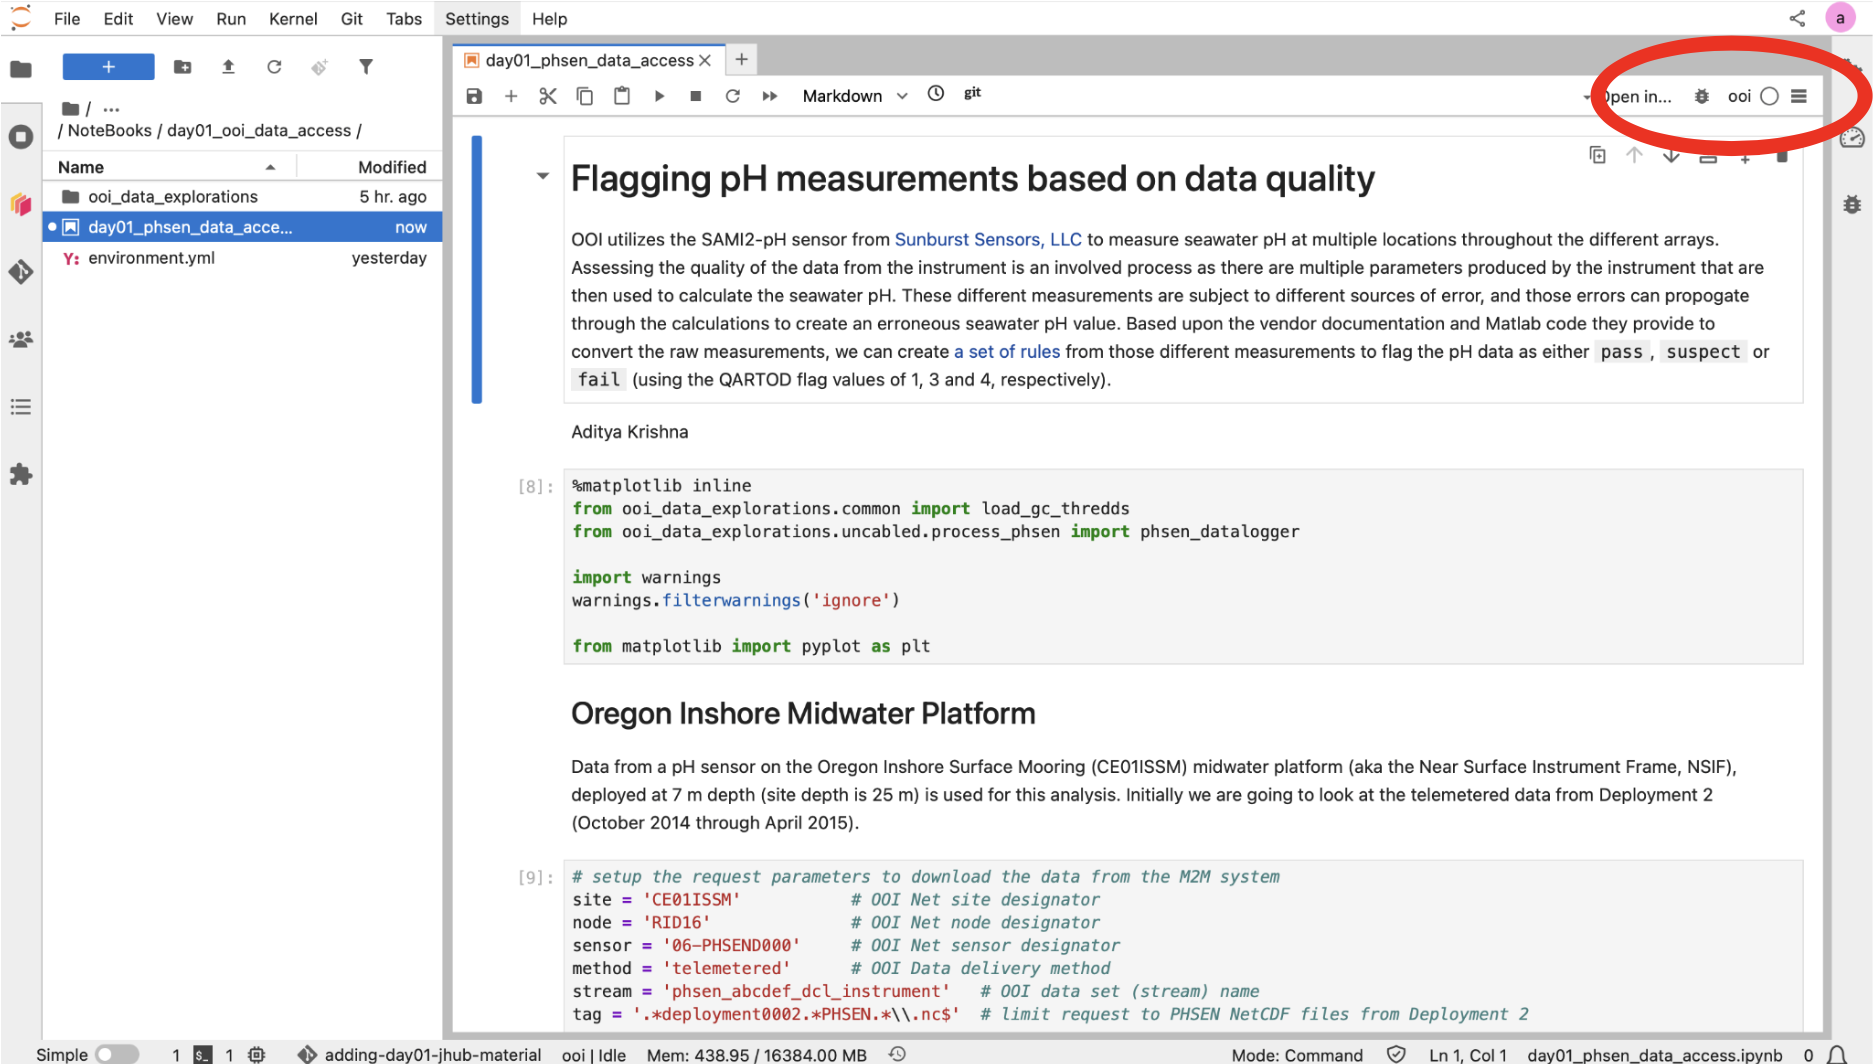
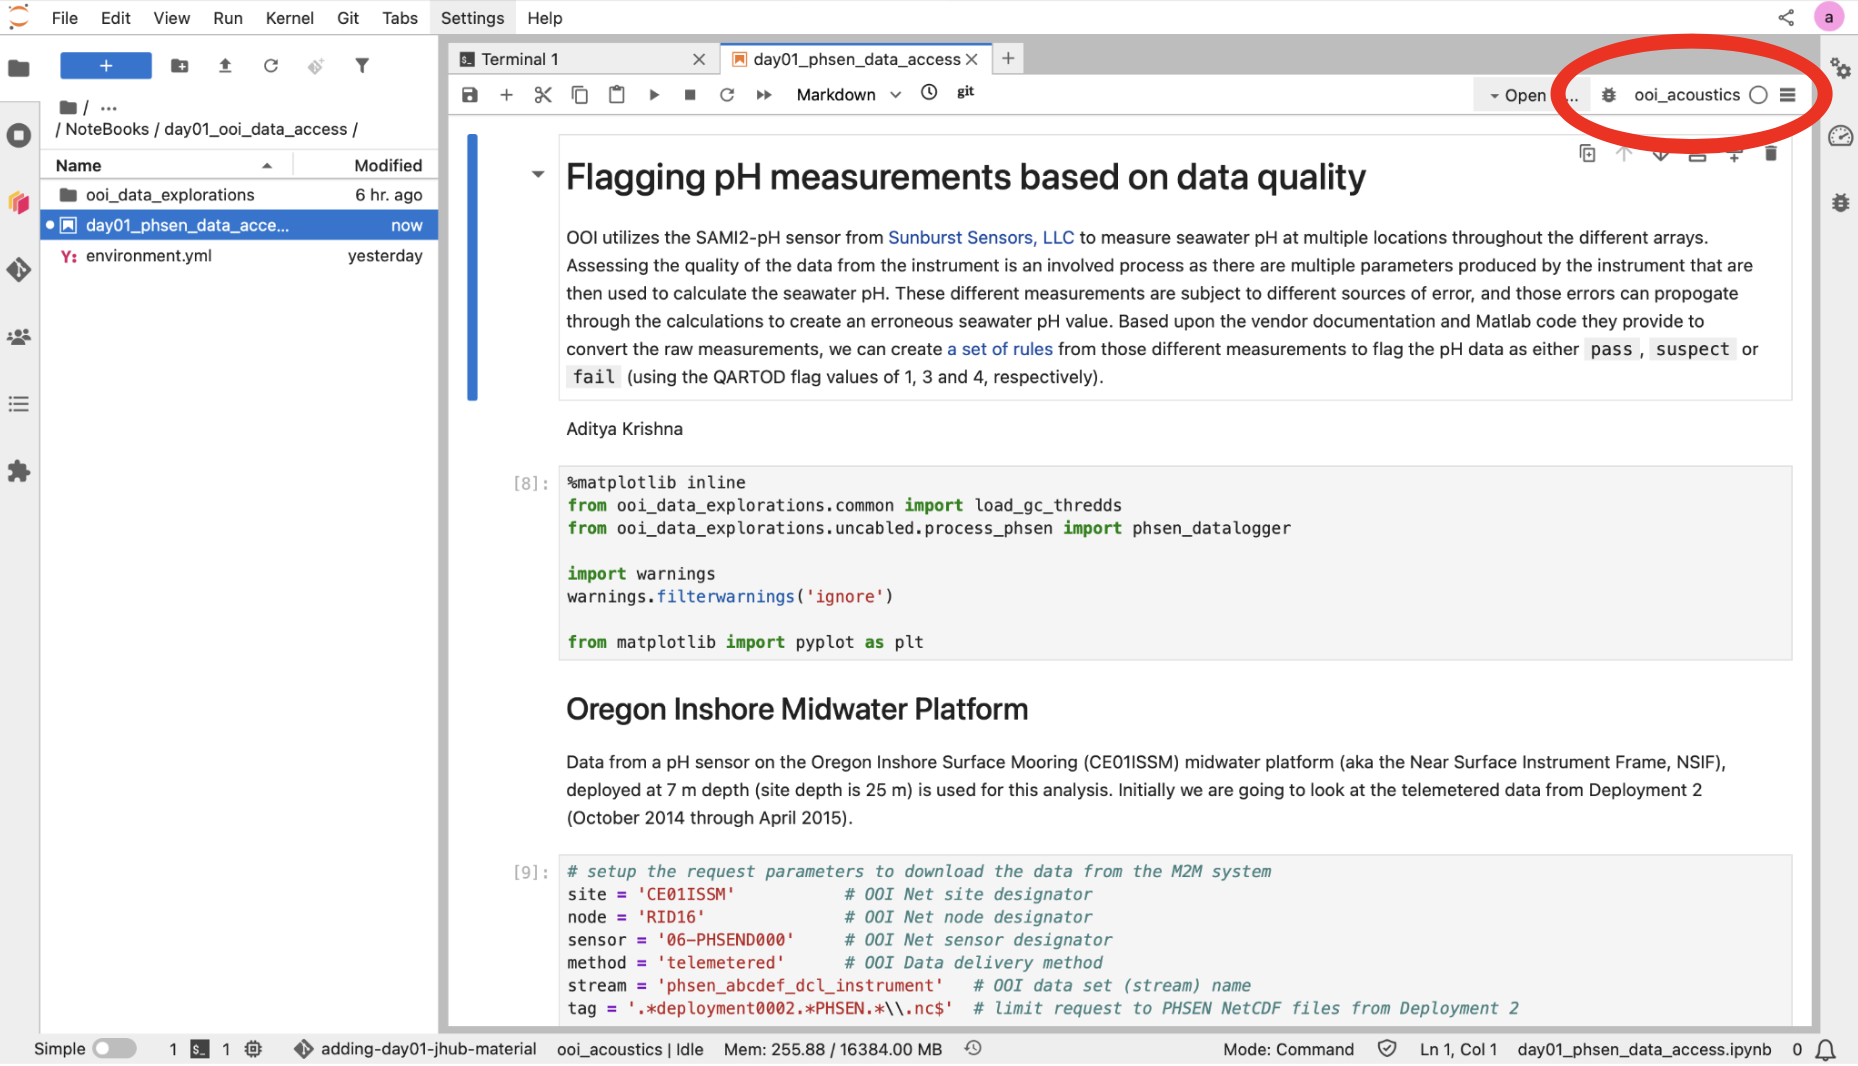
changed ooi kernel to ooi_acoustics kernel in text and image

diff --git a/docs/day01_ooi_jhub_setup.md b/docs/day01_ooi_jhub_setup.md
@@ -121,7 +121,7 @@ In the JupyterHub terminal:
 
 Now we can run the provided example notebook within the `ooi-data-explorations` folder to see if all the packages have been installed properly. On the JupyterHub, use the navigation window on the left to find and open the `day01_phsen_data_access.ipynb` notebook.
 
-When you open a jupyter notebook, on the top right you can select the ipython kernel to be the conda environment that we just created. Click on `Python 3 (ipykernel)` and change it to the `ooi` environment we just created.
+When you open a jupyter notebook, on the top right you can select the ipython kernel to be the conda environment that we just created. Click on `Python 3 (ipykernel)` and change it to the `ooi_acoustics` environment we just created.
 ```{image} ./img/jhub_notebook.png
 :width: 500px
 :align: center
